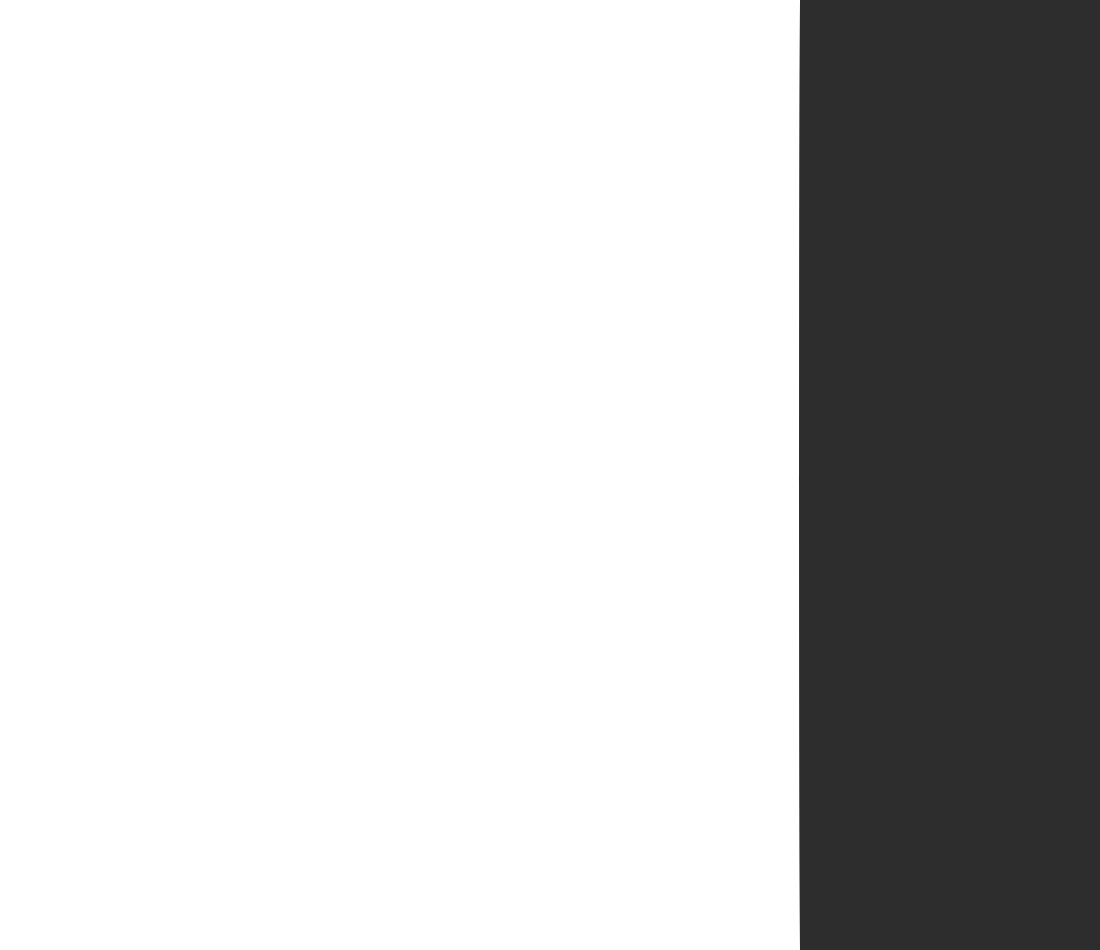
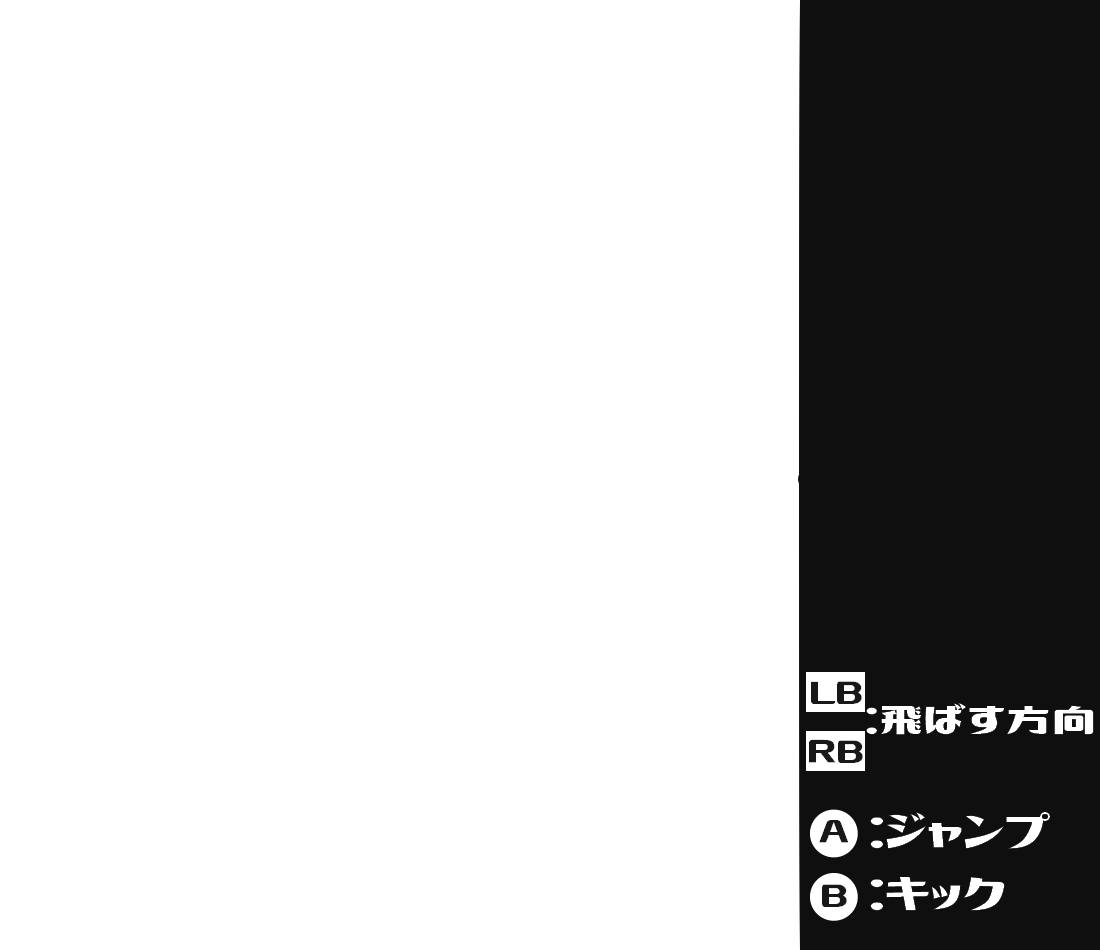
fix

Changed region(s): [[0.7109, 0.0, 1.0, 1.0]]

diff --git a/project/Game/Scene/GameScene.cpp b/project/Game/Scene/GameScene.cpp
@@ -50,7 +50,7 @@ void GameScene::Initialize() {
 
 	keyPaneru_ = std::make_unique<Sprite>();
 	keyPaneru_->Load("uiHome.png");
-	keyPaneru_->SetColor({ 0.236f,0.236f,0.236f,1.0f });
+	keyPaneru_->SetColor({ 1.0f,1.0f,1.0f,1.0f });
 	keyPaneru_->SetAnchor({ 0.0f,0.0f });
 
 	obj3dCommon.reset(new Object3dCommon());
